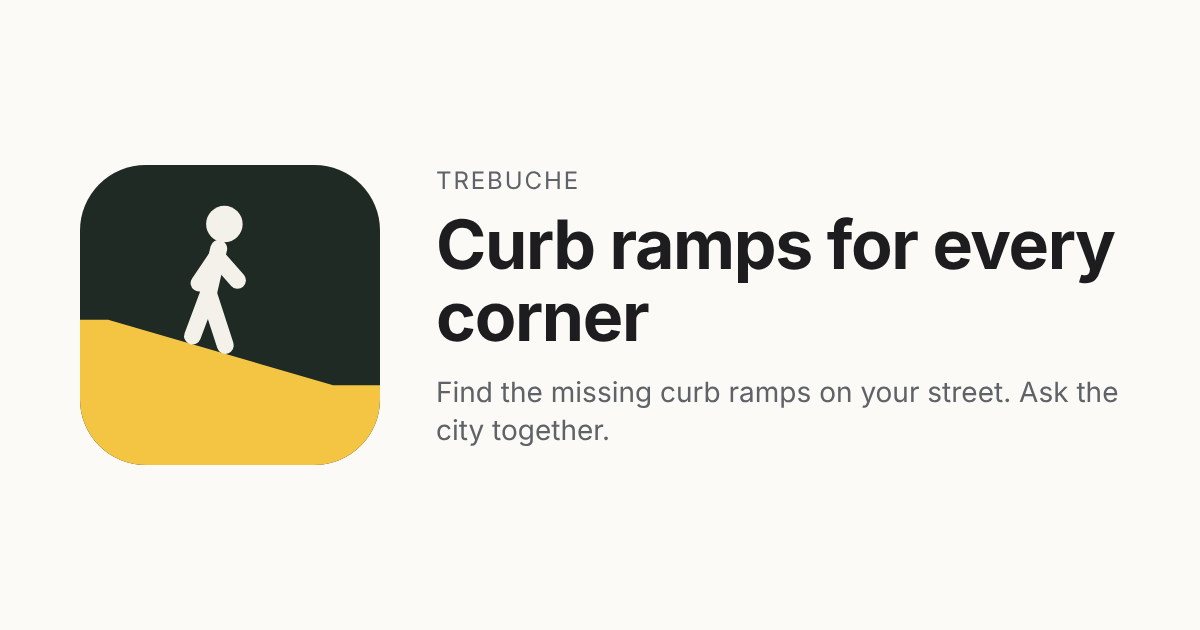
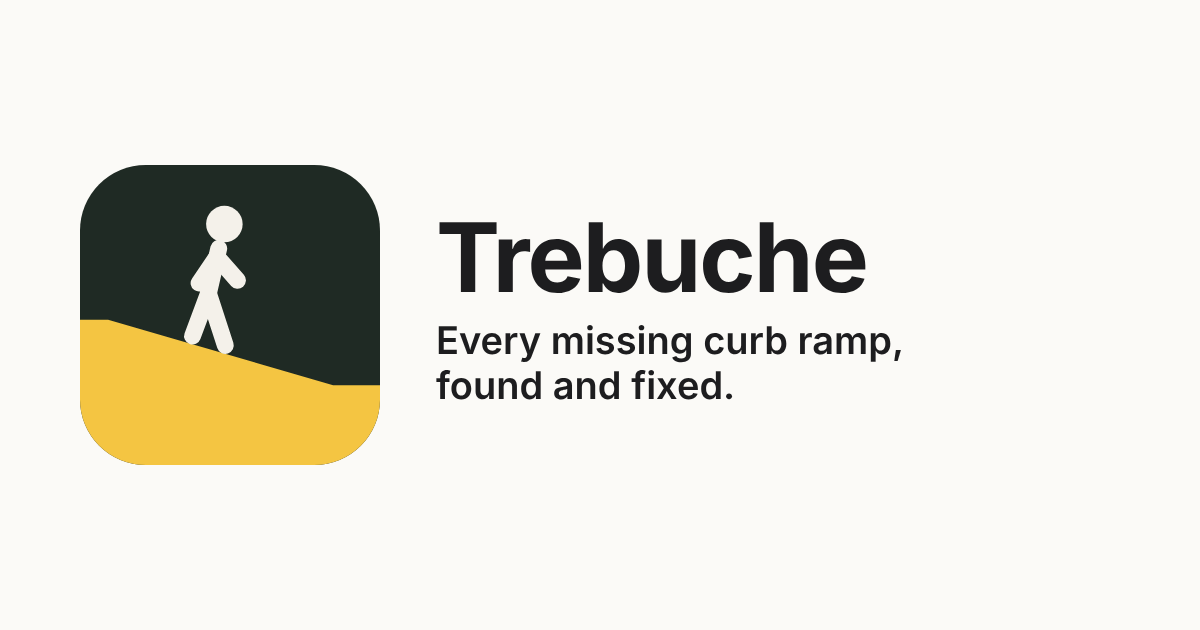
Name the site Trebuche on the home page, with a tagline
Home page title is now "Trebuche" with the tagline "Every missing curb
ramp, found and fixed." Page title, link-preview text and image updated
to match.

Claude-Session: https://claude.ai/code/session_01Sq9k8B5B4JkukpDxaTXJfG

Changed region(s): [[0.3392, 0.3317, 0.925, 0.6635], [0.37, 0.6635, 0.4933, 0.7238], [0.37, 0.2714, 0.4933, 0.3016]]

diff --git a/docs/index.html b/docs/index.html
@@ -3,7 +3,7 @@
 <head>
 <meta charset="utf-8">
 <meta name="viewport" content="width=device-width, initial-scale=1">
-<title>Trebuche: Missing Curb Ramps</title>
+<title>Trebuche</title>
 <meta name="description" content="Trebuche checks every street corner for missing curb ramps using city records, volunteer street-imagery labels and OpenStreetMap, then helps neighbors ask the city to build them.">
 <script>
   // Map links shared before the site had sections: send them to the Dayton Ave N map.
@@ -13,11 +13,11 @@
 <link rel="apple-touch-icon" href="apple-touch-icon.png">
 <meta name="theme-color" content="#1f2a24">
 <meta property="og:type" content="website">
-<meta property="og:title" content="Trebuche: find the missing curb ramps on your street">
+<meta property="og:title" content="Trebuche: every missing curb ramp, found and fixed">
 <meta property="og:description" content="Check every corner for missing curb ramps with public data, then ask the city together.">
 <meta property="og:url" content="https://olivierlacan.github.io/trebuche/">
 <meta property="og:image" content="https://olivierlacan.github.io/trebuche/og.png">
-<meta property="og:image:alt" content="Trebuche logo, a person walking down a curb ramp, with the words: Curb ramps for every corner">
+<meta property="og:image:alt" content="Trebuche logo, a person walking down a curb ramp, with the words: Trebuche. Every missing curb ramp, found and fixed.">
 <meta name="twitter:card" content="summary_large_image">
 <link rel="stylesheet" href="site.css">
 </head>
@@ -26,8 +26,8 @@
 <header class="hero">
   <div class="wrap">
     <img class="hero-logo" src="logo.svg" width="72" height="72" alt="">
-    <p class="eyebrow">Trebuche</p>
-    <h1>Curb ramps for every corner</h1>
+    <h1 class="site-name">Trebuche</h1>
+    <p class="tagline">Every missing curb ramp, found&nbsp;and&nbsp;fixed.</p>
     <p class="lede">A missing curb ramp turns a curb into a wall for anyone pushing a stroller, using a wheelchair or walker,
       or pulling a cart. Cities often don't know exactly where ramps are missing. Trebuche checks every corner of a street
       against public data, shows the evidence, and helps neighbors ask the city to build what's missing.</p>

diff --git a/docs/seattle/index.html b/docs/seattle/index.html
@@ -13,7 +13,7 @@
 <meta property="og:description" content="How to ask the City of Seattle for a curb ramp, and the Seattle streets Trebuche is checking corner by corner.">
 <meta property="og:url" content="https://olivierlacan.github.io/trebuche/seattle/">
 <meta property="og:image" content="https://olivierlacan.github.io/trebuche/og.png">
-<meta property="og:image:alt" content="Trebuche logo, a person walking down a curb ramp, with the words: Curb ramps for every corner">
+<meta property="og:image:alt" content="Trebuche logo, a person walking down a curb ramp, with the words: Trebuche. Every missing curb ramp, found and fixed.">
 <meta name="twitter:card" content="summary_large_image">
 <link rel="stylesheet" href="../site.css">
 </head>

diff --git a/docs/site.css b/docs/site.css
@@ -137,3 +137,7 @@ h3 { font-size: 18px; margin: 0 0 6px; line-height: 1.3; }
 .steps li strong { display: block; }
 .prose { max-width: 44em; }
 .prose p { margin: 0 0 14px; }
+
+/* Home page name + tagline */
+.hero h1.site-name { font-size: clamp(44px, 9vw, 84px); margin: 0 0 6px; letter-spacing: -.03em; }
+.tagline { font-size: clamp(22px, 3.4vw, 32px); line-height: 1.2; font-weight: 600; color: #f4c542; margin: 0 0 20px; max-width: 22em; }
